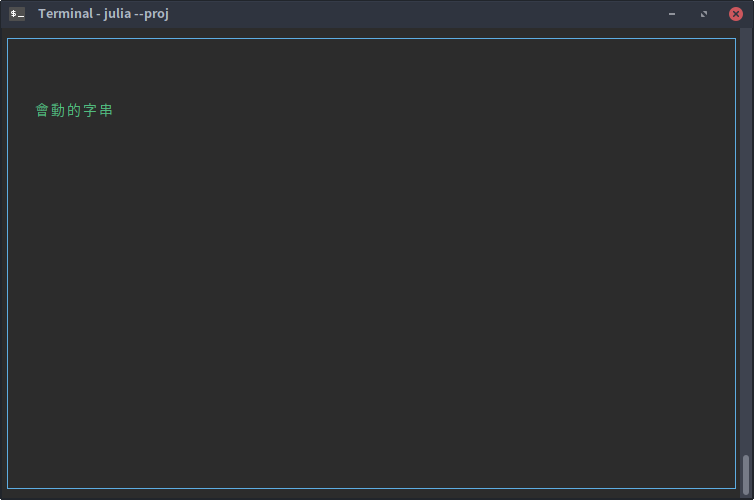
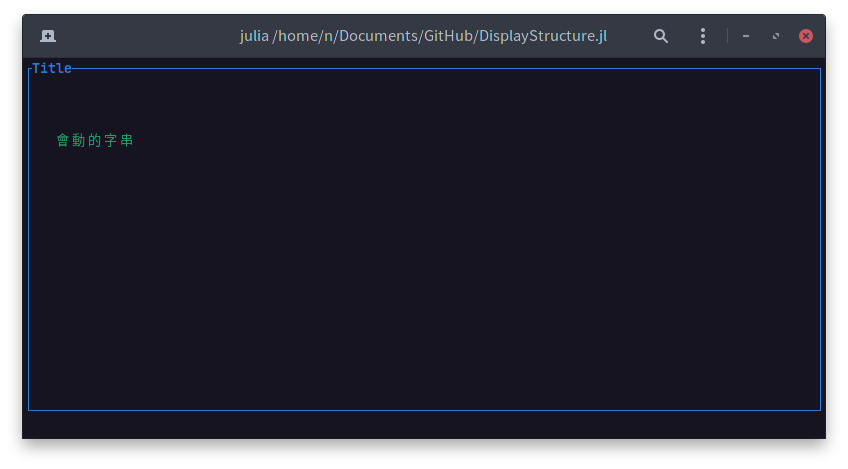
update readme

Changed region(s): [[0.0, 0.0, 1.0, 1.0], [0.061, 0.2687, 0.1525, 0.3284]]

diff --git a/README.md b/README.md
@@ -28,6 +28,8 @@ pkg> add DisplayStructure
 
 ## Usage
 
+### From scratch
+
 1. Using package
 
 ```julia
@@ -57,9 +59,40 @@ julia> label[1:end] = str
 julia> DS.render(area, pos=(1, 1)); DS.render(label, pos=(5, 5))
 ```
 
-![](gallery/usage.png)
+> **Hint: The result may be different from the picture showing bellow. One may need to integrate [Terming.jl](https://github.com/foldfelis/Terming.jl) to completely dominate terminal control.**
 
-> **Hint: The result may be different from the picture showing above. One may need to integrate [Terming.jl](https://github.com/foldfelis/Terming.jl) to completely dominate terminal control.**
+### With DisplayStack
+
+with `DisplayStack`, one can easily construct a hierarchical display structure.
+
+1. Using package
+
+```julia
+julia> using DisplayStructure; const DS = DisplayStructure;
+```
+
+
+2. Define a function that returns a `DisplayStack`
+
+```julia
+julia> function gen_form()
+    display_stack =  DS.DisplayStack()
+    push!(display_stack, :form => DS.Panel("Title", [20, 100], [1, 1]))
+    push!(display_stack, :str => DS.Label("會動的字串", [5, 5]))
+
+    return display_stack
+end;
+
+julia> form = gen_form();
+```
+
+3. Render it!!
+
+```julia
+julia> DS.render(form)
+```
+
+![](gallery/usage.png)
 
 ## Example
 
